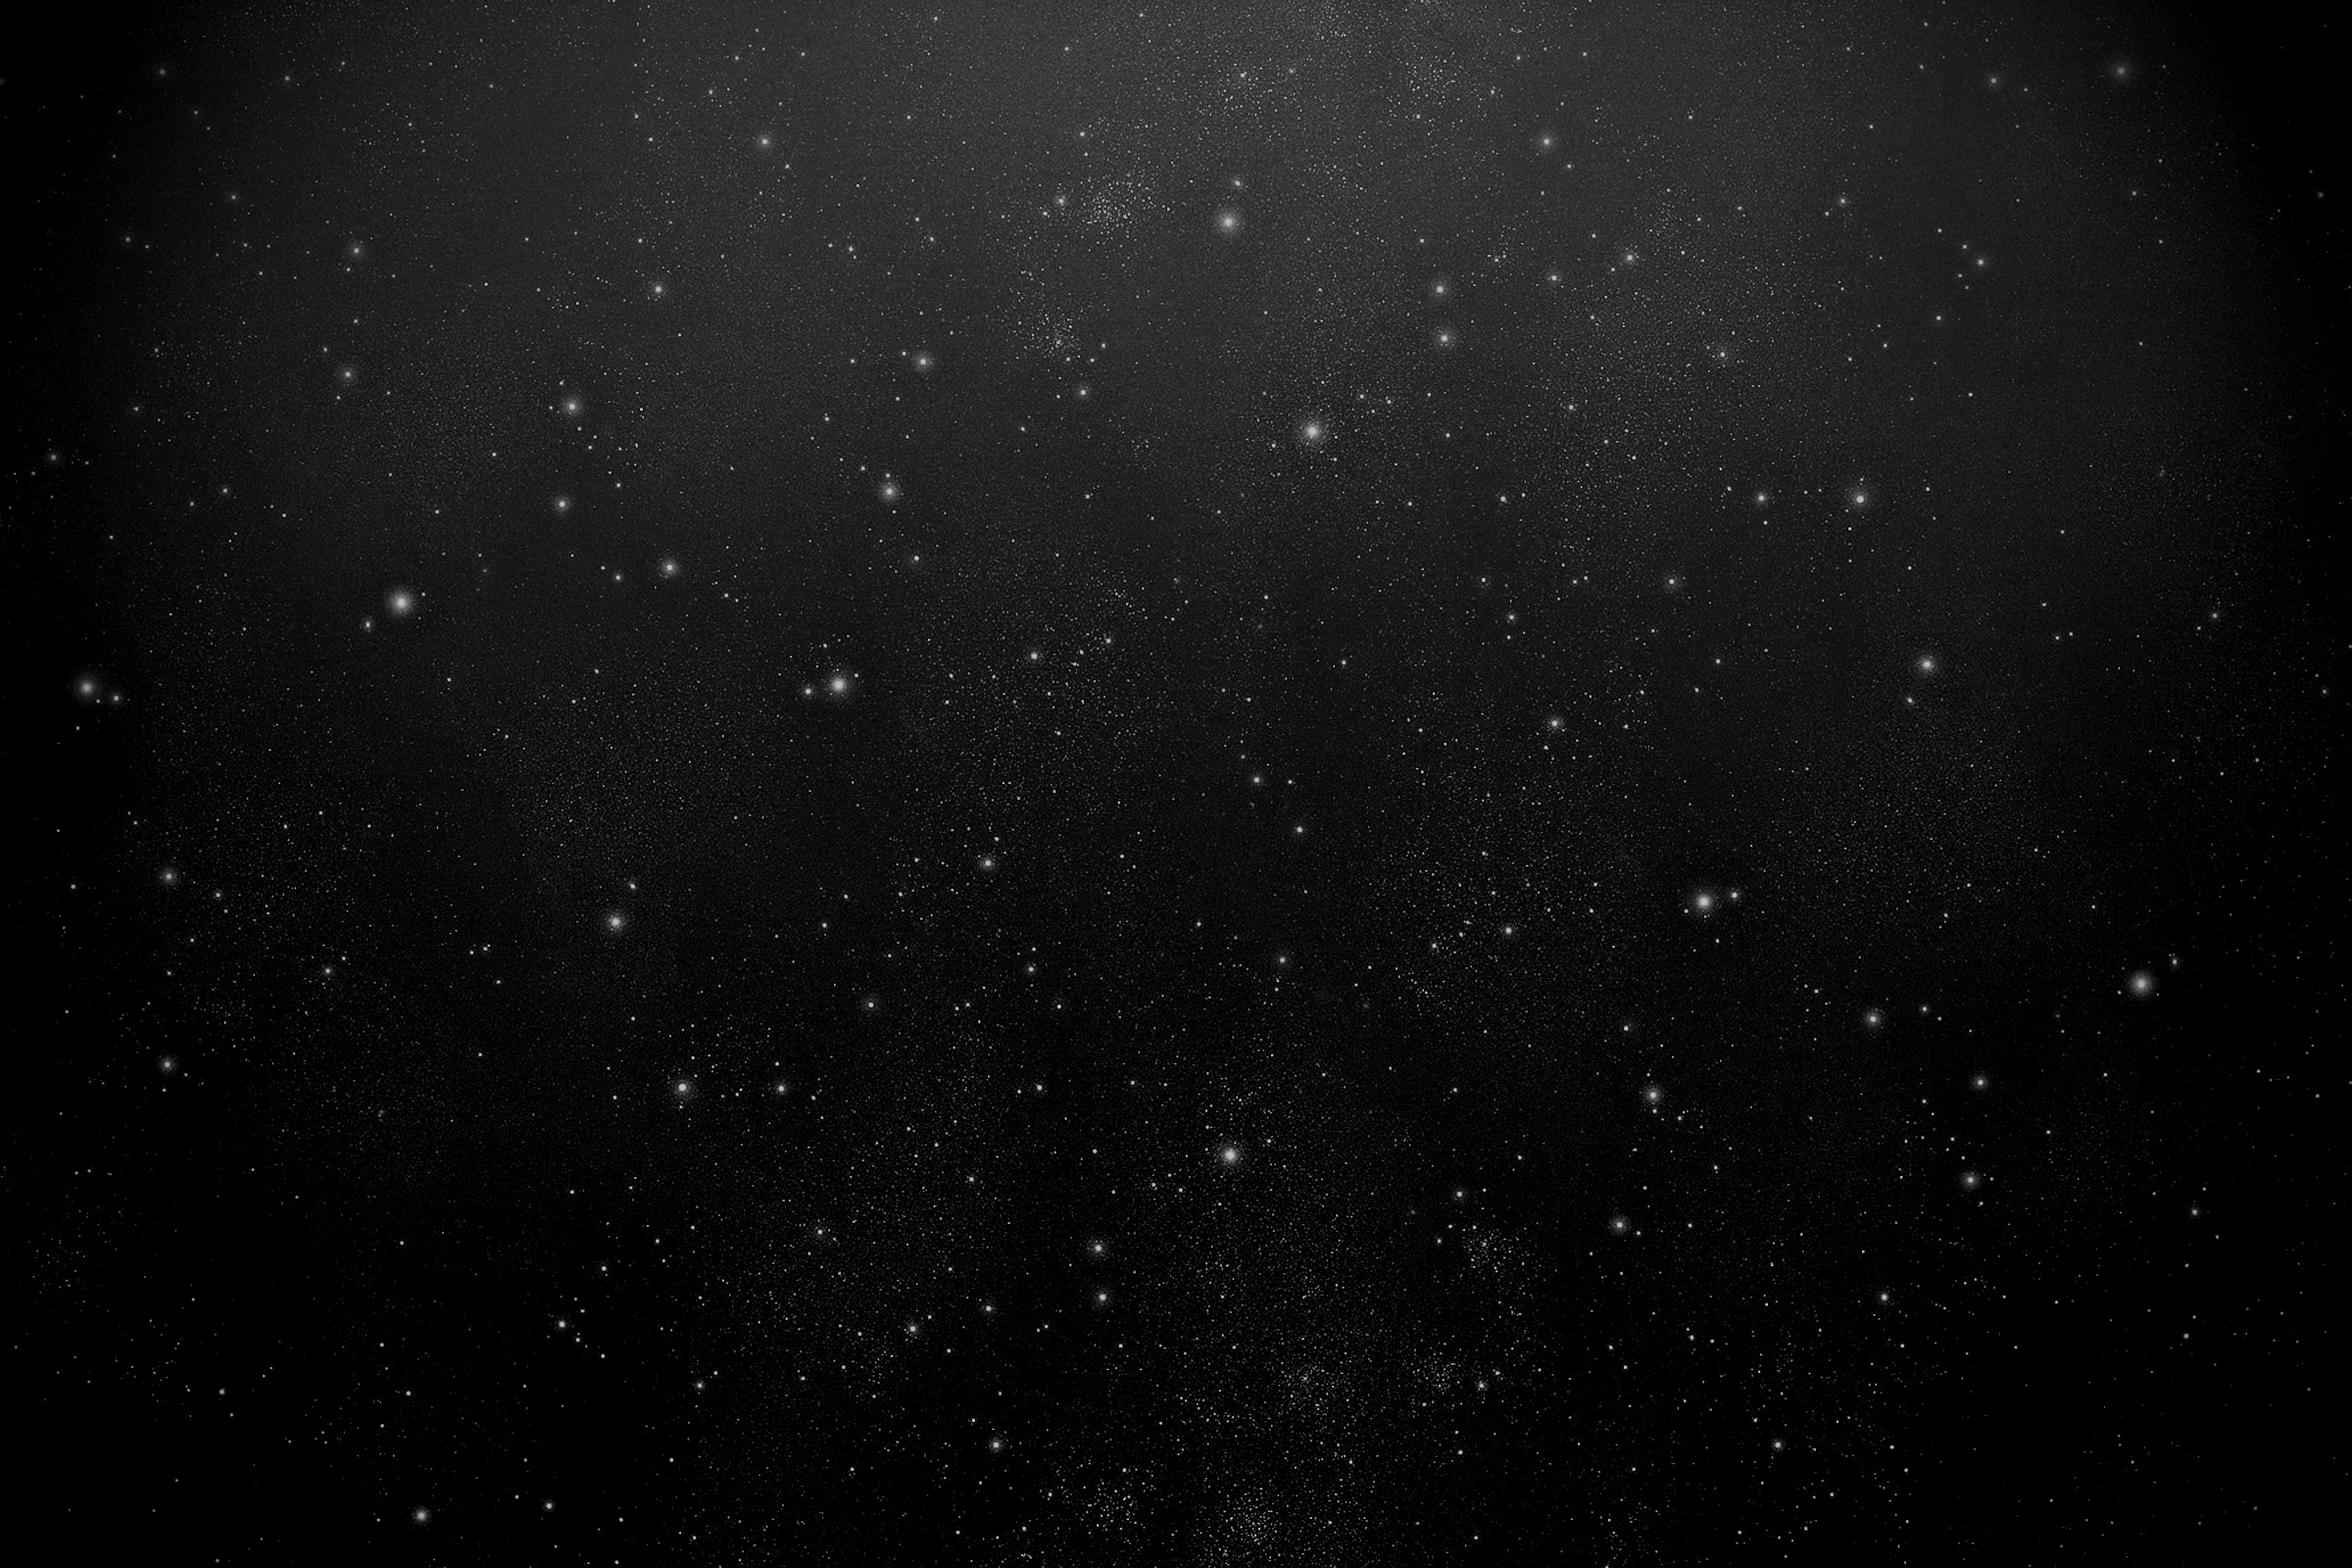
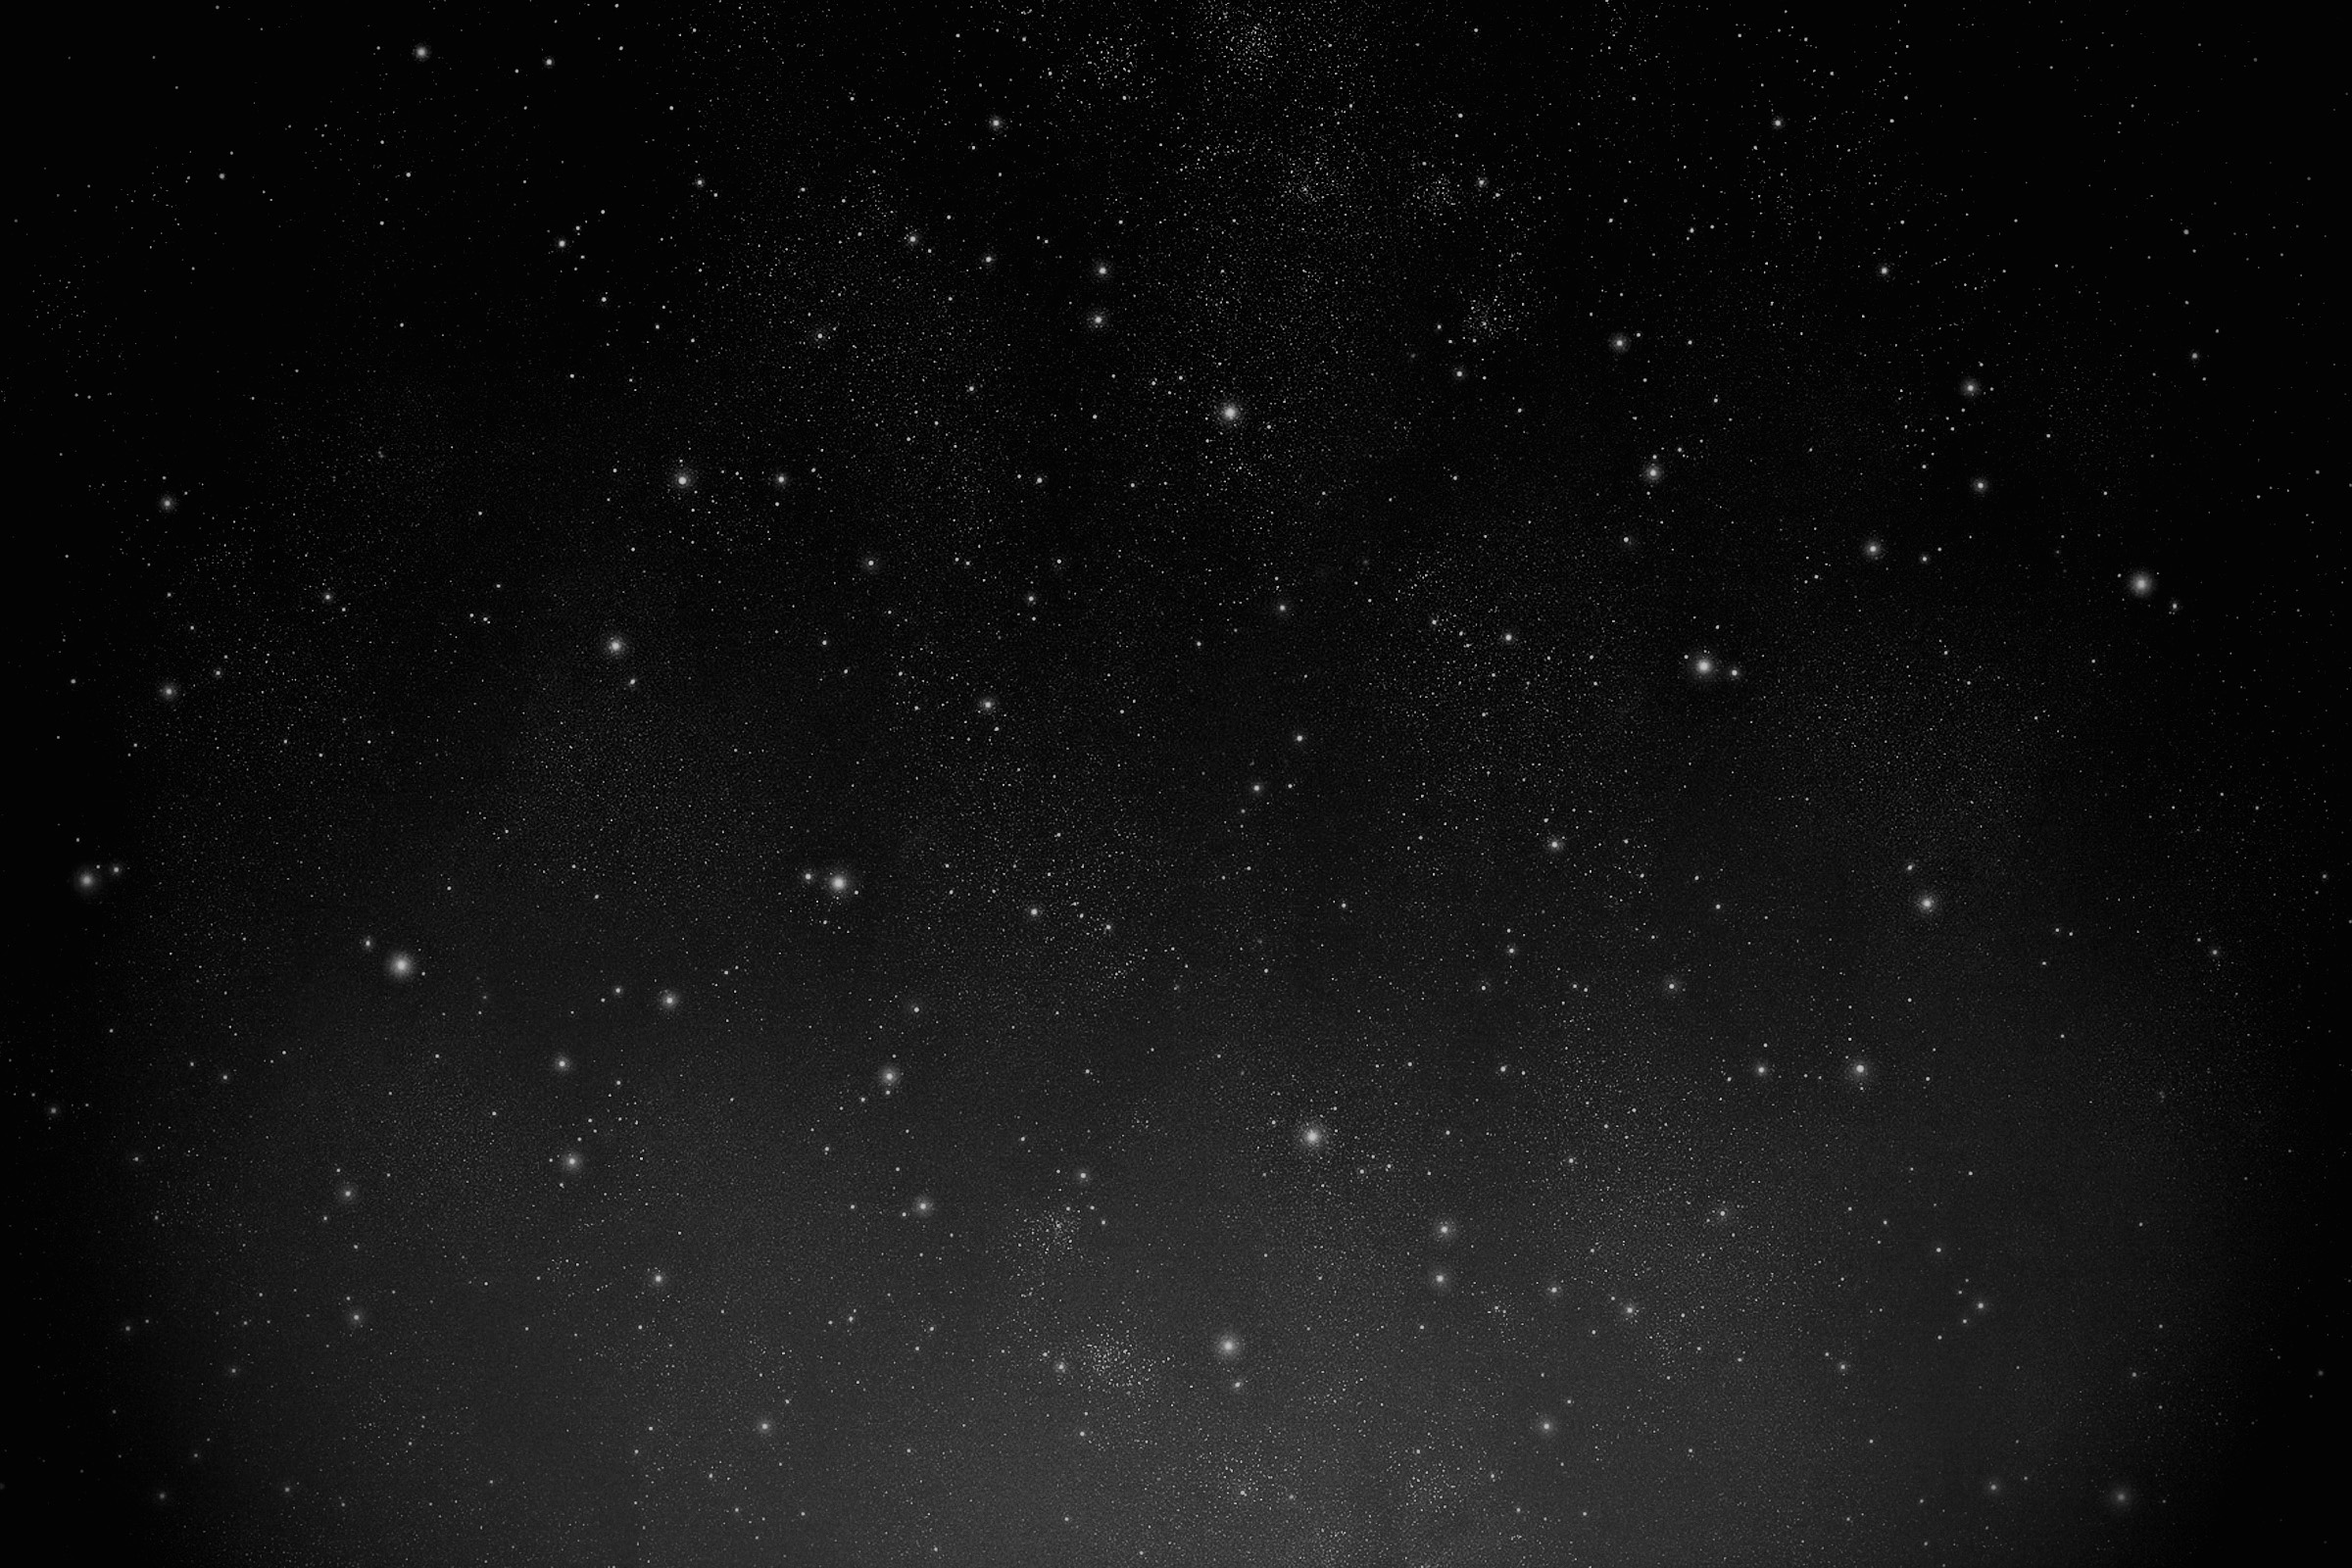
Better space pic

diff --git a/combo.css b/combo.css
@@ -63,7 +63,12 @@
 }
 
 #music {
-  background: url("img/space.jpg") no-repeat center center;
+  background: url("img/space2.jpg") no-repeat center center;
+  background-size: cover;
+}
+
+#pix {
+  background: url("img/space2.jpg") no-repeat center center;
   background-size: cover;
 }
 
@@ -73,4 +78,8 @@
 
 nav {
   background-color: rgba(46,46,46,0.6);
+}
+
+.sectiondivider img {
+  margin-top: 0;
 }

diff --git a/_posts/2015-08-03-pix.md b/_posts/2015-08-03-pix.md
@@ -1,6 +1,5 @@
 ---
 title: "pix"
-bg: black
 color: white
 style: center
 ---
